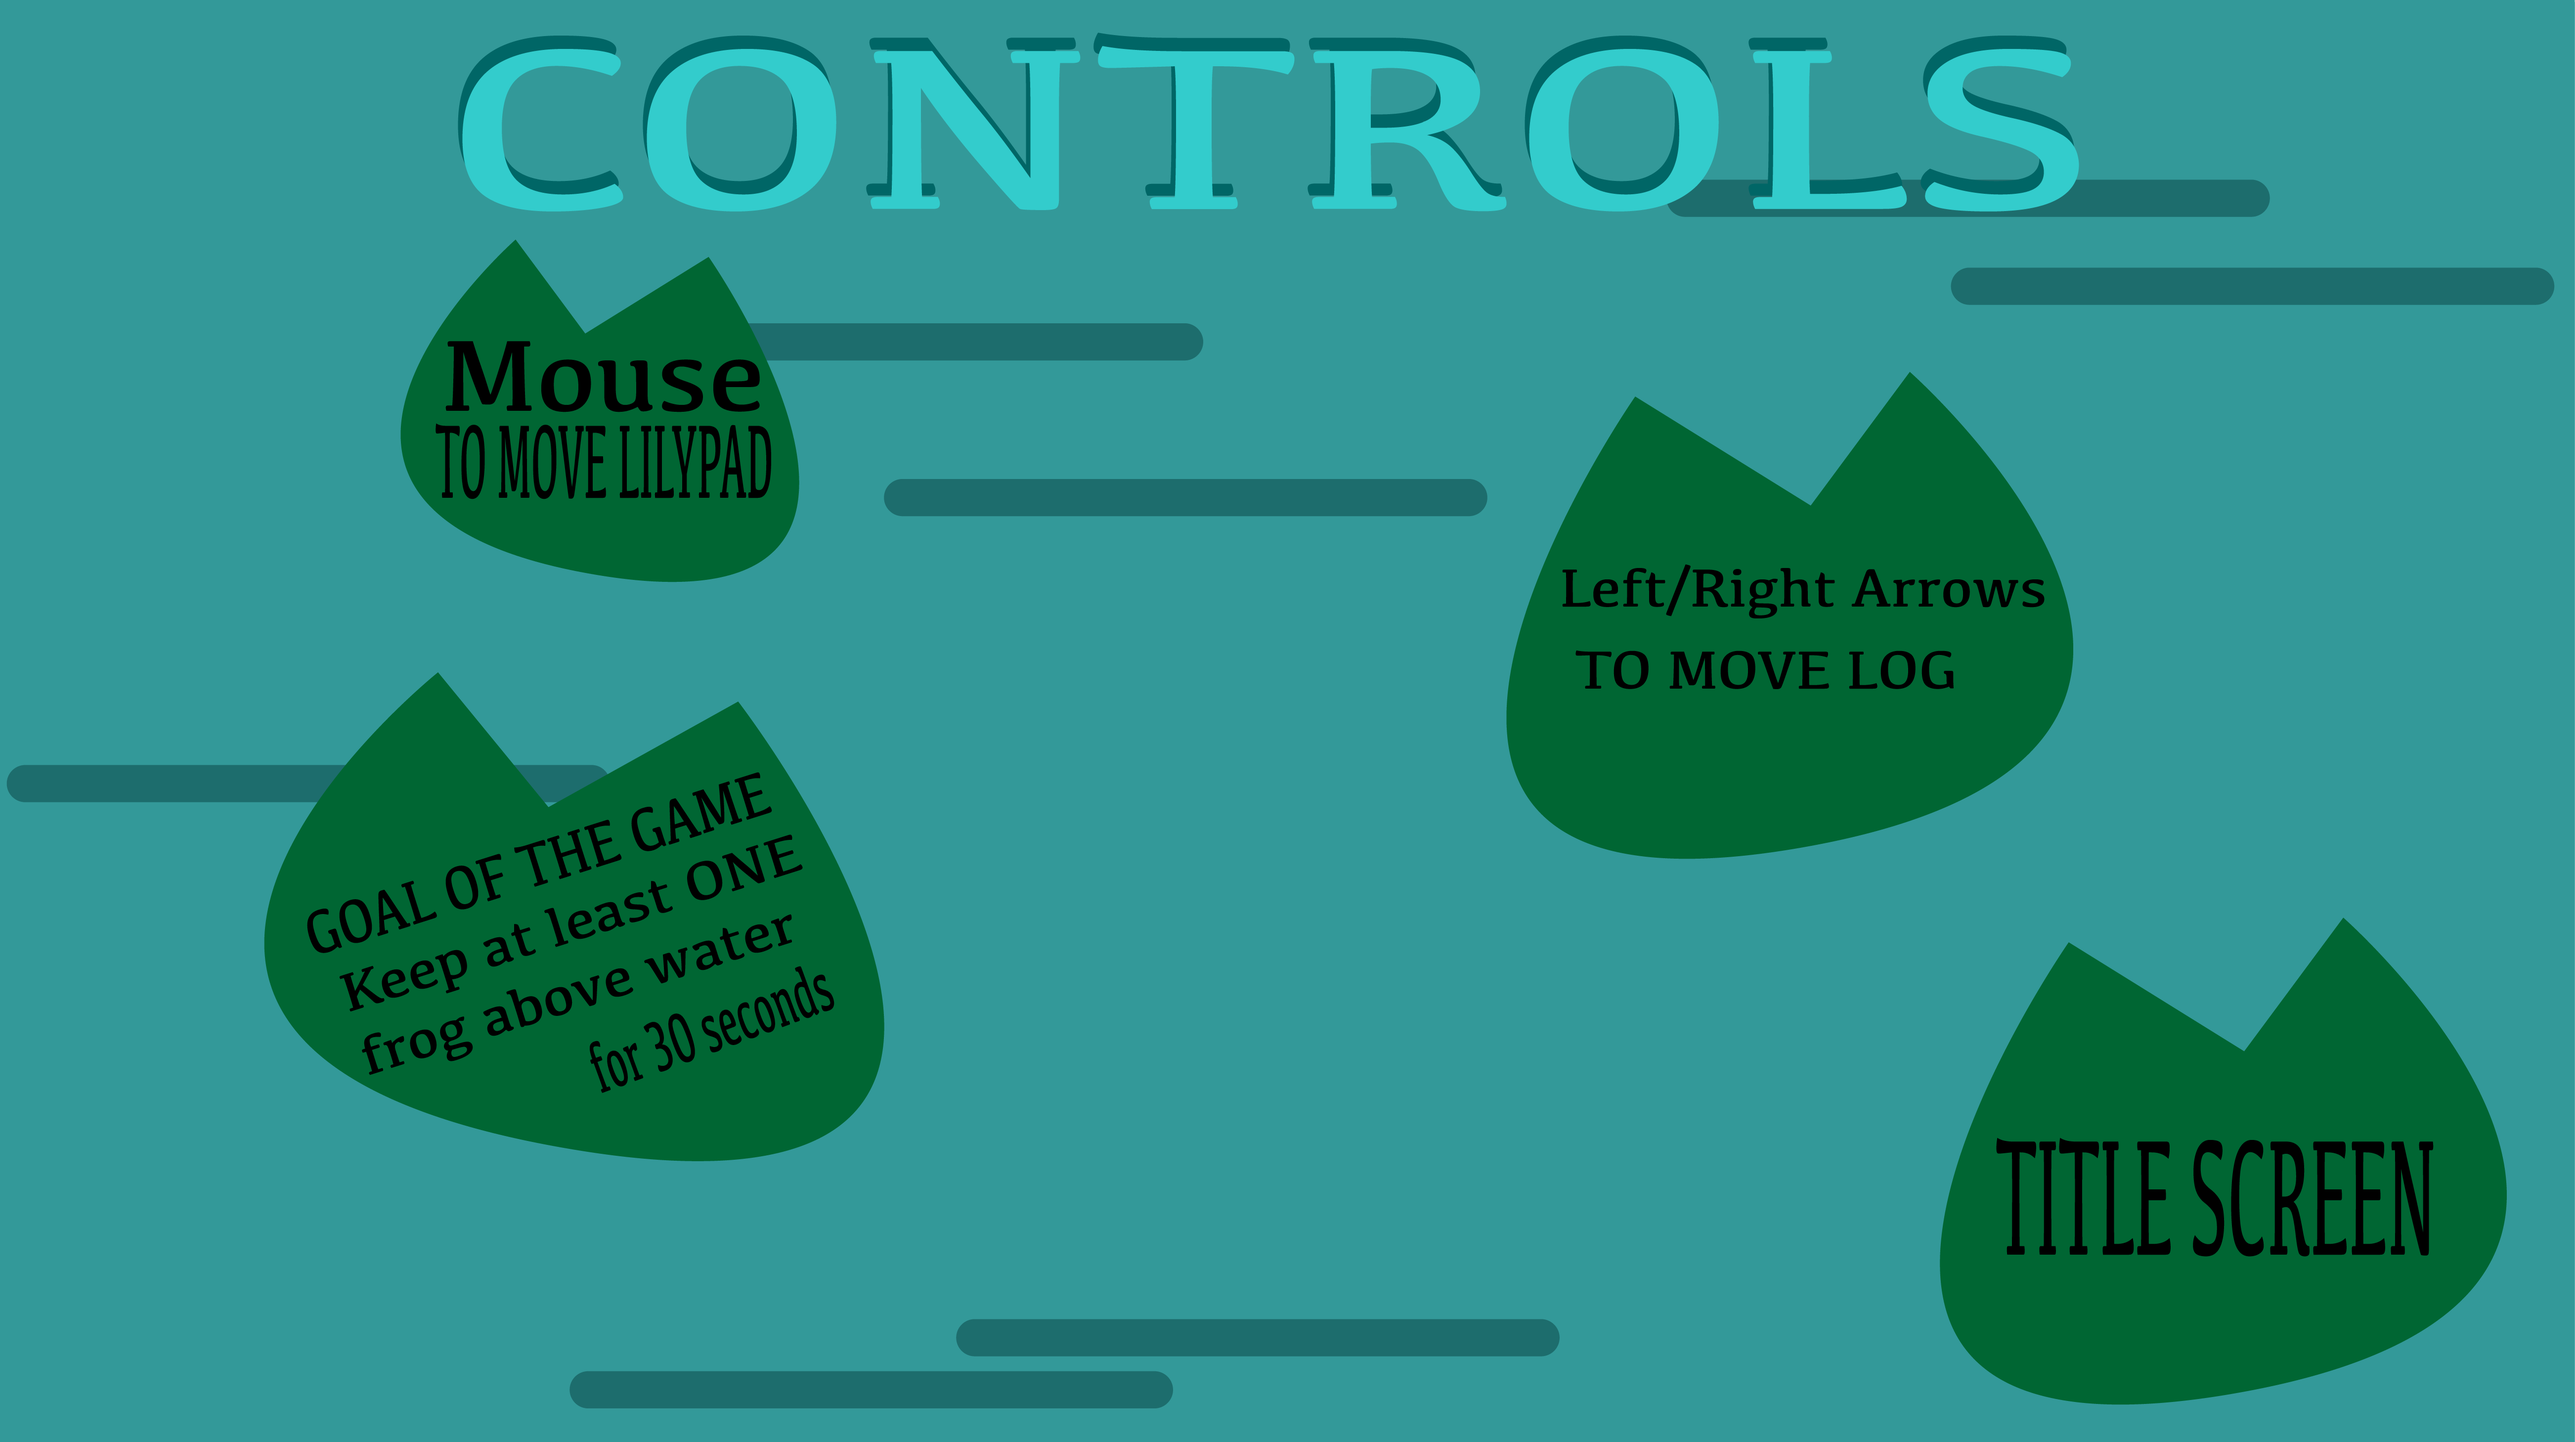
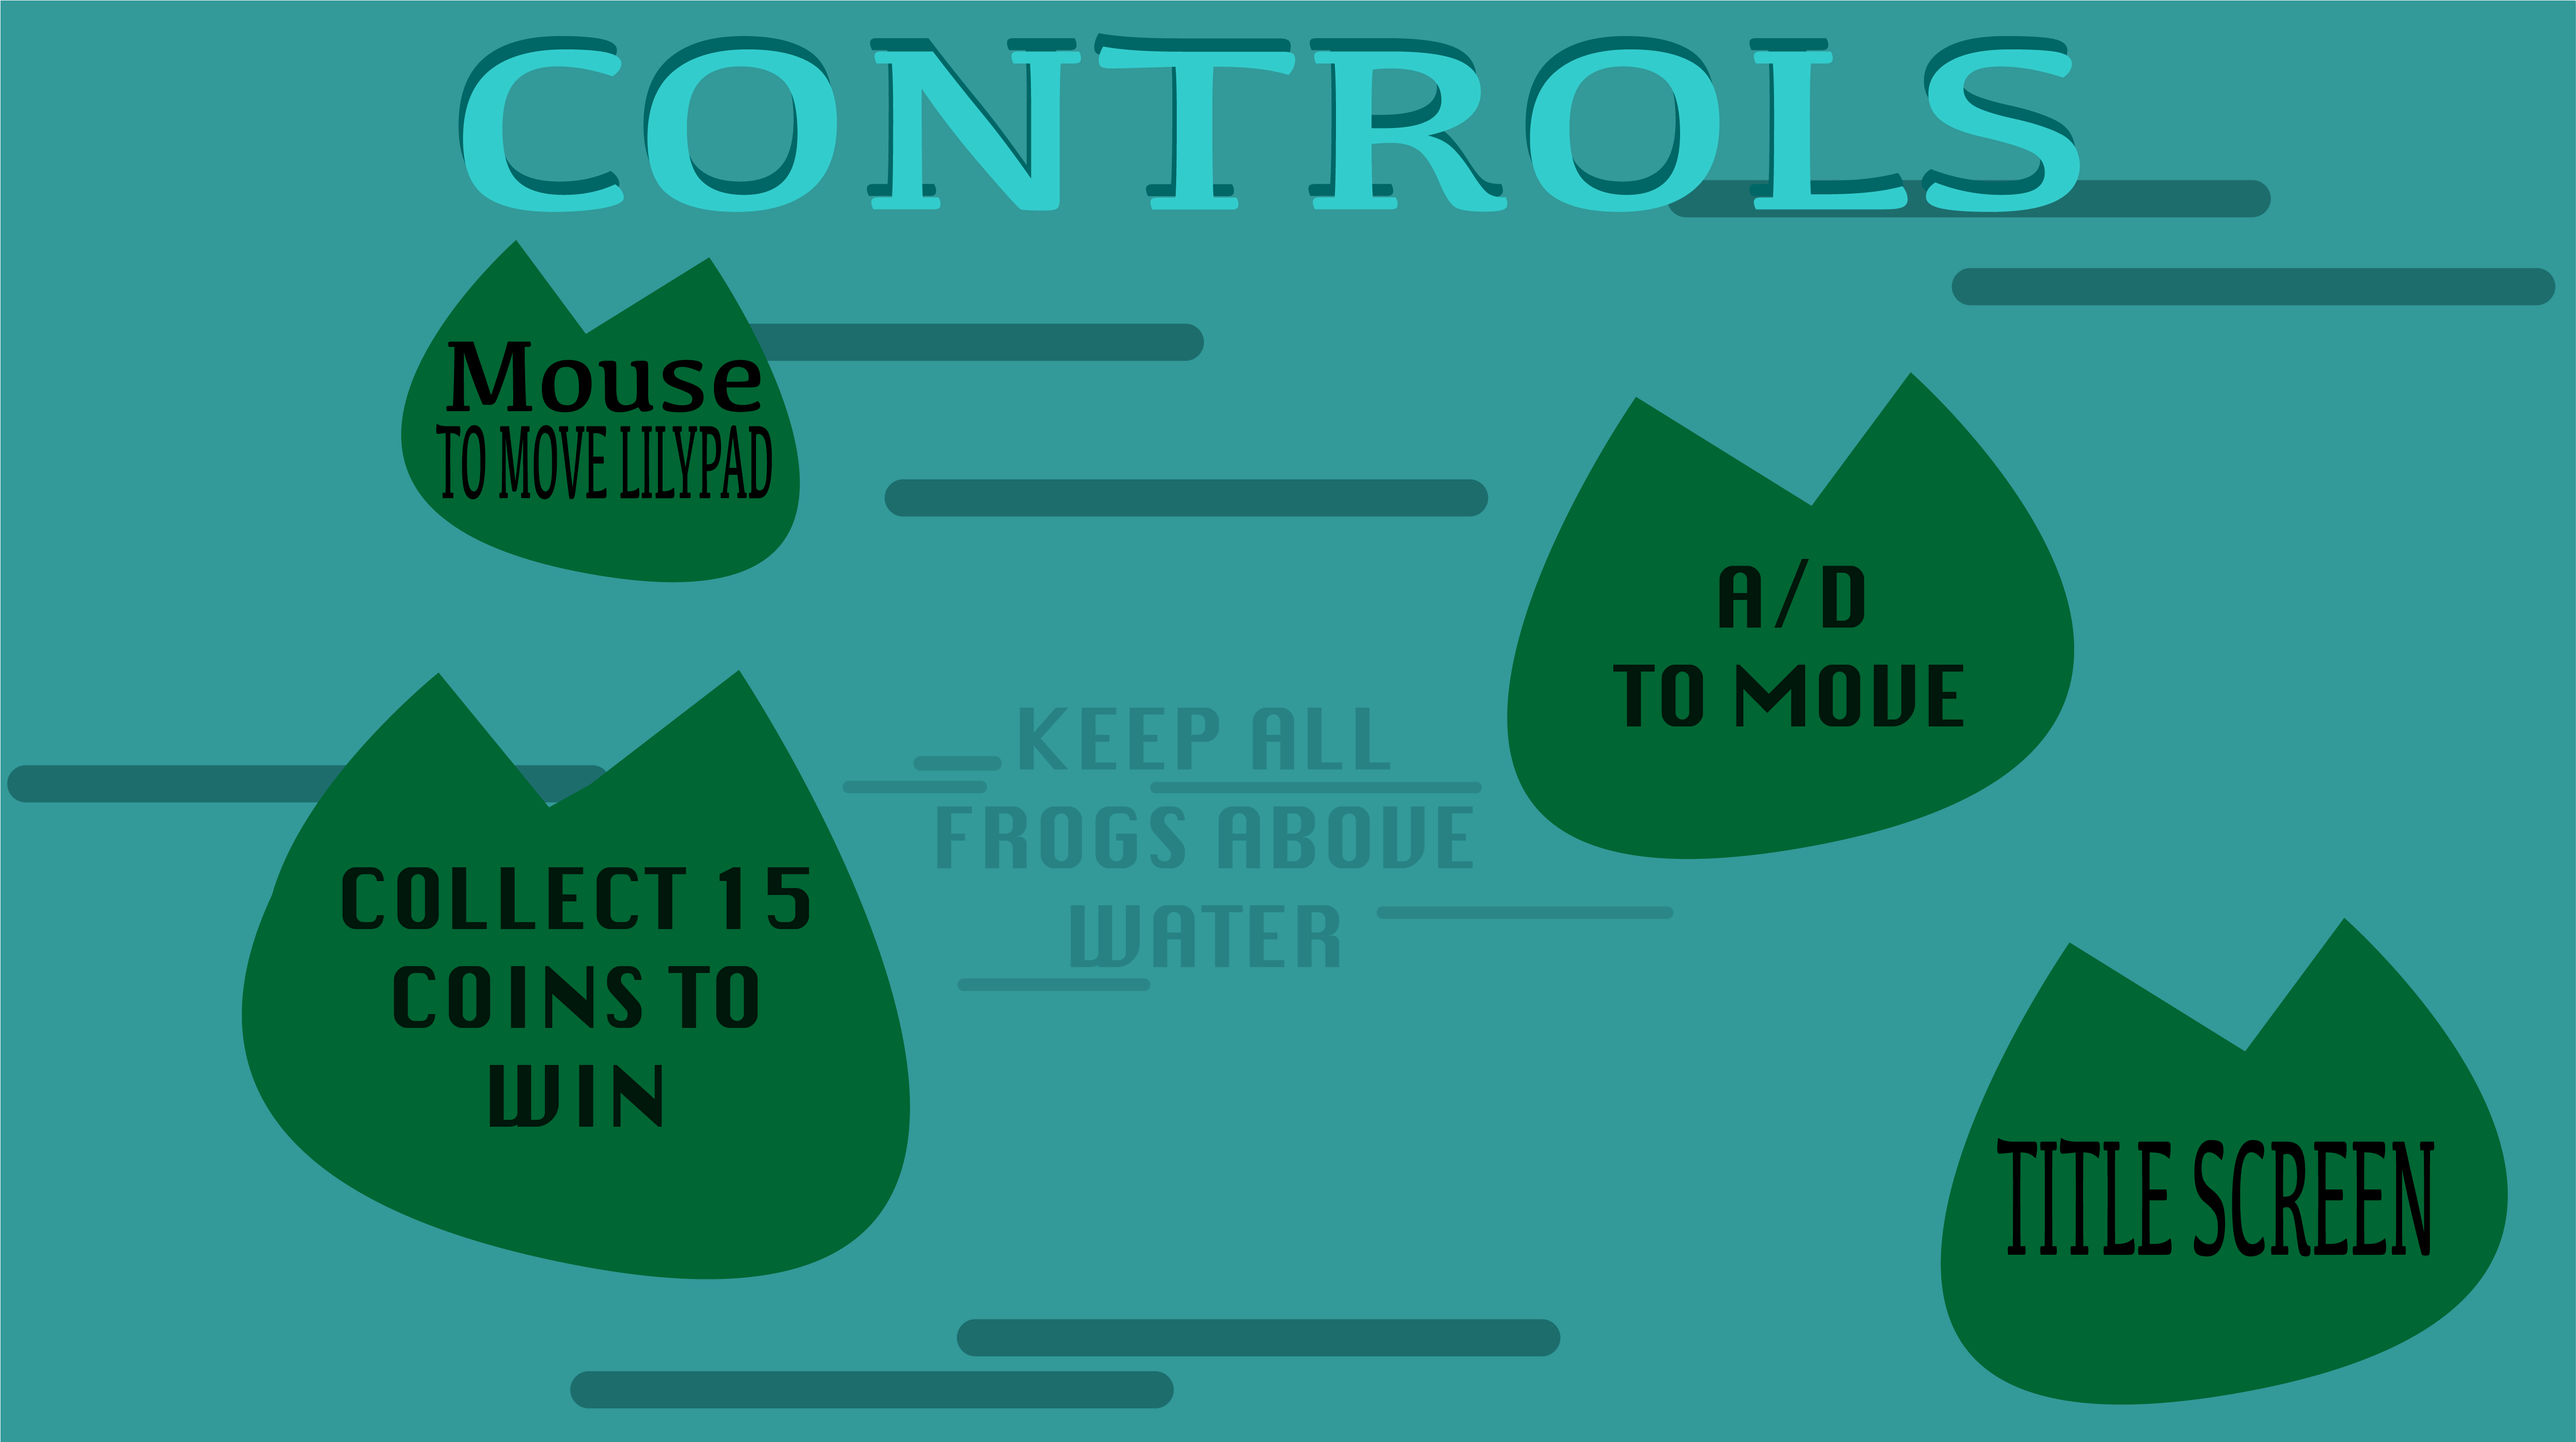
Add help state, and simple return to home screen

Changed region(s): [[0.0933, 0.4679, 0.3732, 0.9047], [0.5909, 0.3744, 0.8086, 0.4991], [0.1866, 0.312, 0.2177, 0.3432]]

diff --git a/Exercises/JuggleGarden/js/script.js b/Exercises/JuggleGarden/js/script.js
@@ -5,6 +5,9 @@ Alex Cho
 Add a(nother) form of user-control[LOG]
 Add a new class and objects[Coins]
 Add at least two endings[Good/Bad]
+
+I put the controls button and the titlescreen button on the controls page to close. You need to click before the T on CONTROLS to activate.
+sorry! 
 */
 
 "use strict";
@@ -87,6 +90,9 @@ function draw() {
   if (state === 'title') {
     titleScreen();
   }
+  else if (state === 'help') {
+    helpScreen();
+  }
   else if (state === 'simulation') {
     simulation();
   }
@@ -122,6 +128,11 @@ for (let i = 0; i < numCoins; i++) {
   let y = random(-500,-100);
   coins[i] = new Coin(x,y);
   }
+}
+
+function helpScreen() {
+  imageMode(CENTER);
+  image(stateScreens.image2,stateScreens.x,stateScreens.y,stateScreens.w,stateScreens.h);
 }
 
 function simulation() {
@@ -190,21 +201,35 @@ function userSettings() {
 function mouseClicked() {
 //TITLE TO SIMULATION
   if (state === 'title') {
-    if (mouseX > 140 && mouseX < 450) {
+    if (mouseX > 140 && mouseX < 450) { //Play button
     if (mouseY > 460 && mouseY < 650) {
     state = 'simulation';
       }
     }
   }
+  if (state === 'title') {
+    if (mouseX > 820 && mouseX < 1000) { //Help button
+    if (mouseY > 430 && mouseY < 680) {
+    state = 'help';
+      }
+    }
+  }
+  if (state === 'help') {
+    if (mouseX > 950 && mouseX < 1220) { //return home from helpscreen
+    if (mouseY > 460 && mouseY < 700) {
+    state = 'title';
+      }
+    }
+  }
   if (state === 'goodend') {
-    if (mouseX > 950 && mouseX < 1220) {
+    if (mouseX > 950 && mouseX < 1220) { //return home from goodend
     if (mouseY > 460 && mouseY < 680) {
     state = 'title';
       }
     }
   }
   if (state === 'badend') {
-    if (mouseX > 950 && mouseX < 1220) {
+    if (mouseX > 950 && mouseX < 1220) { //return home from badend
     if (mouseY > 460 && mouseY < 680) {
     state = 'title';
       }
